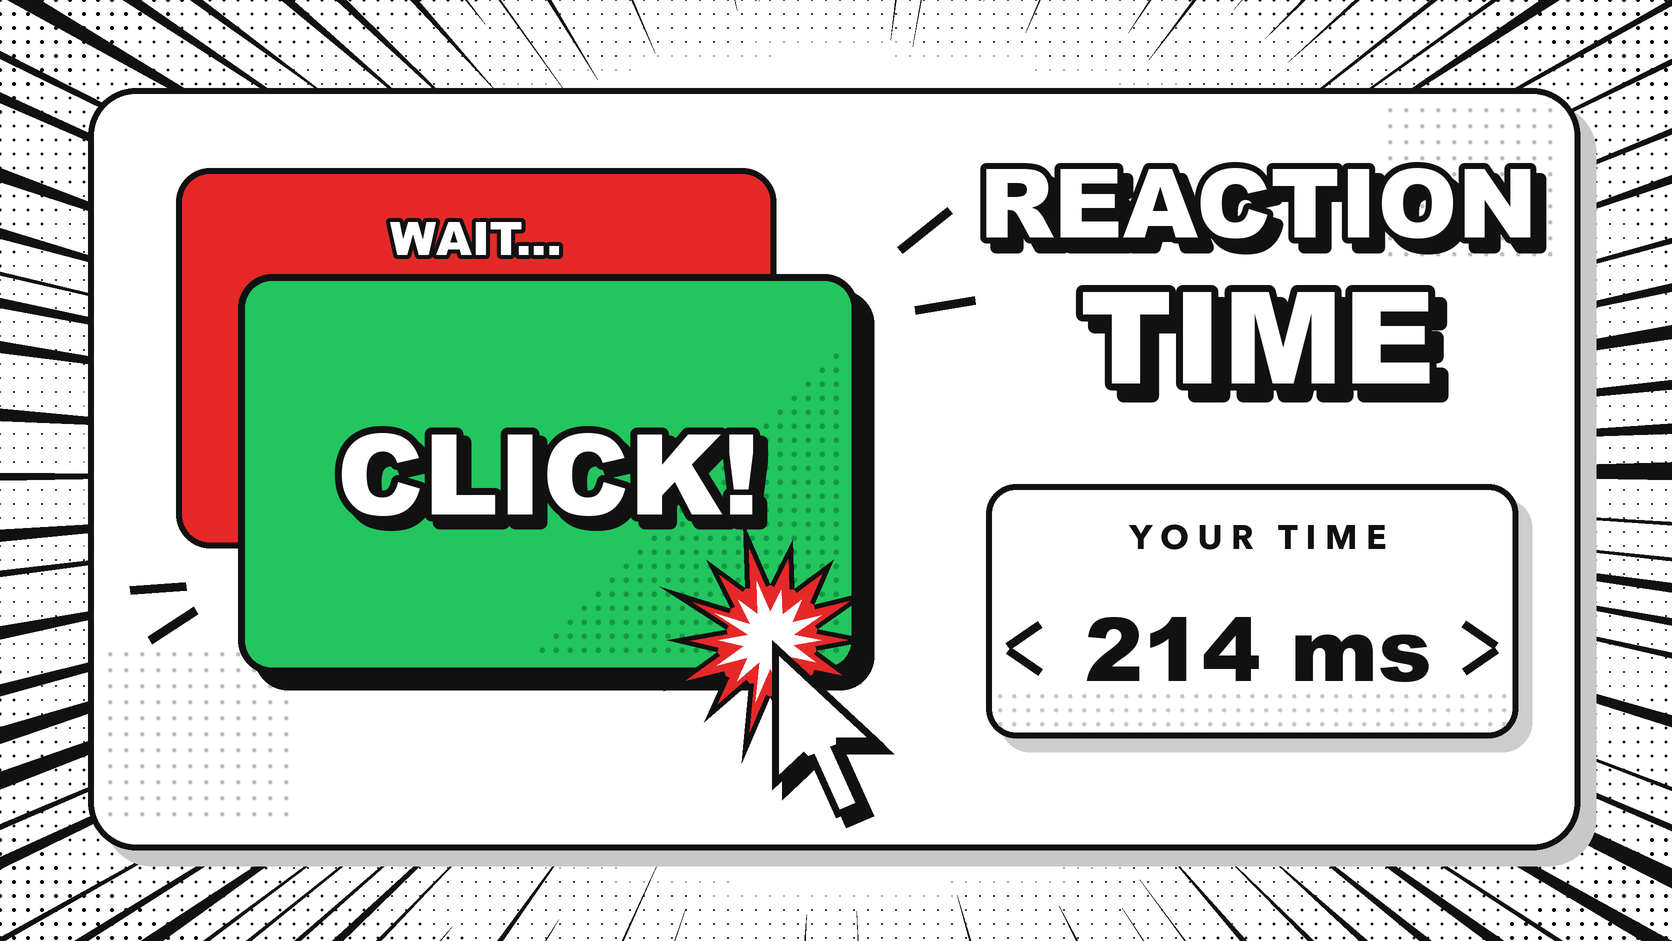
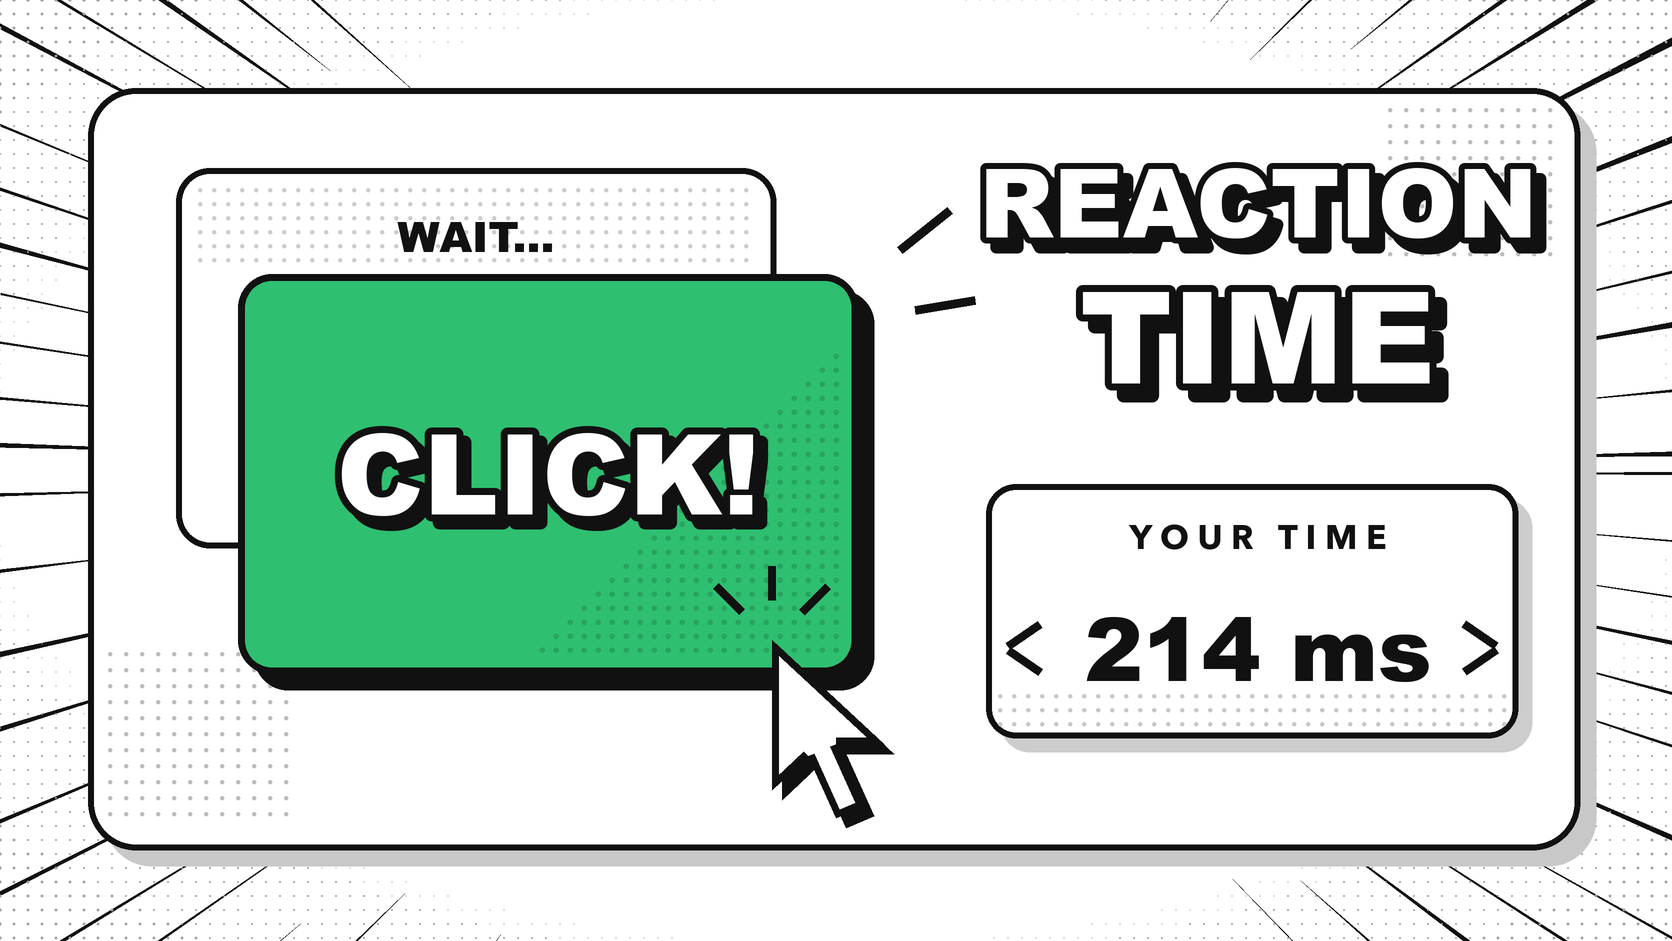
design: tone down the reaction time cover and show full covers on blog game cards
The article's game card now frames covers at 16:9 instead of cropping them. The reaction time article uses the new cover, and the unused old cover is removed.

diff --git a/components/blog-tool-card.tsx b/components/blog-tool-card.tsx
@@ -5,6 +5,7 @@ import { GameCover } from "@/components/game-card";
 import LinkClickTracker from "@/components/link-click-tracker";
 import { getGameBySlug } from "@/data/games";
 import { Link } from "@/i18n/navigation";
+import { cn } from "@/lib/utils";
 
 // Screeners that articles can point to, keyed by path, with their copy in the tests namespace.
 const ASSESSMENTS: Record<string, { item: string; icon: LucideIcon }> = {
@@ -44,9 +45,15 @@ export function BlogToolCard({ href, fromPage, linkLocation }: BlogToolCardProps
                 data-link-location={linkLocation}
                 className="group flex items-stretch gap-4 overflow-hidden rounded-2xl border border-border bg-card transition-colors hover:border-foreground/25 focus-visible:outline-none focus-visible:ring-2 focus-visible:ring-ring"
             >
-                <span className="relative flex w-28 shrink-0 items-center justify-center overflow-hidden bg-muted/60 sm:w-36">
+                {/* Game covers are 16:9, so they get a matching frame instead of being cropped to the card height. */}
+                <span
+                    className={cn(
+                        "relative flex shrink-0 items-center justify-center overflow-hidden bg-muted/60",
+                        game ? "my-3 ml-3 aspect-video w-32 self-center rounded-xl sm:w-52" : "w-28 sm:w-36"
+                    )}
+                >
                     {game ? (
-                        <GameCover game={game} title={title} sizes="144px" />
+                        <GameCover game={game} title={title} sizes="208px" />
                     ) : (
                         Icon && <Icon className="h-8 w-8 text-foreground/70" strokeWidth={1.5} aria-hidden="true" />
                     )}

diff --git a/data/blog/what-is-a-good-reaction-time.md b/data/blog/what-is-a-good-reaction-time.md
@@ -4,7 +4,7 @@ date: "2026-10-23"
 updatedAt: "2026-10-25"
 excerpt: "Real reaction time benchmarks from 8,791 players of our online test: the median is 369 ms, and under 300 ms beats about 84% of players. See where your score lands."
 metaDescription: "What is a good reaction time? On our online test the median is 369 ms. Under 300 ms is faster than about 84% of 8,791 players. See the full percentile table."
-coverImage: "/games/reaction-time.png"
+coverImage: "/games/reaction-time-cover.png"
 keywords: "what is a good reaction time, average reaction time, reaction time test results, reaction time benchmark, good reaction time ms, reaction time percentile, human reaction time online test"
 author:
   name: "FreeFocusGames Team"

diff --git a/data/blog-translations/zh/what-is-a-good-reaction-time.md b/data/blog-translations/zh/what-is-a-good-reaction-time.md
@@ -4,7 +4,7 @@ date: "2026-10-23"
 updatedAt: "2026-10-25"
 excerpt: "来自 8,791 名在线测试玩家的真实反应时间数据：中位数 369 毫秒，低于 300 毫秒就快过约 84% 的玩家。看看你的成绩排在哪里。"
 metaDescription: "反应时间多少算快？我们在线测试的中位数是 369 毫秒，低于 300 毫秒快过 8,791 名玩家中的约 84%。查看完整的百分位表。"
-coverImage: "/games/reaction-time.png"
+coverImage: "/games/reaction-time-cover.png"
 keywords: "反应时间多少算快, 平均反应时间, 反应时间测试结果, 反应速度标准, 反应时间百分位, 在线反应时间测试"
 author:
   name: "FreeFocusGames 团队"
